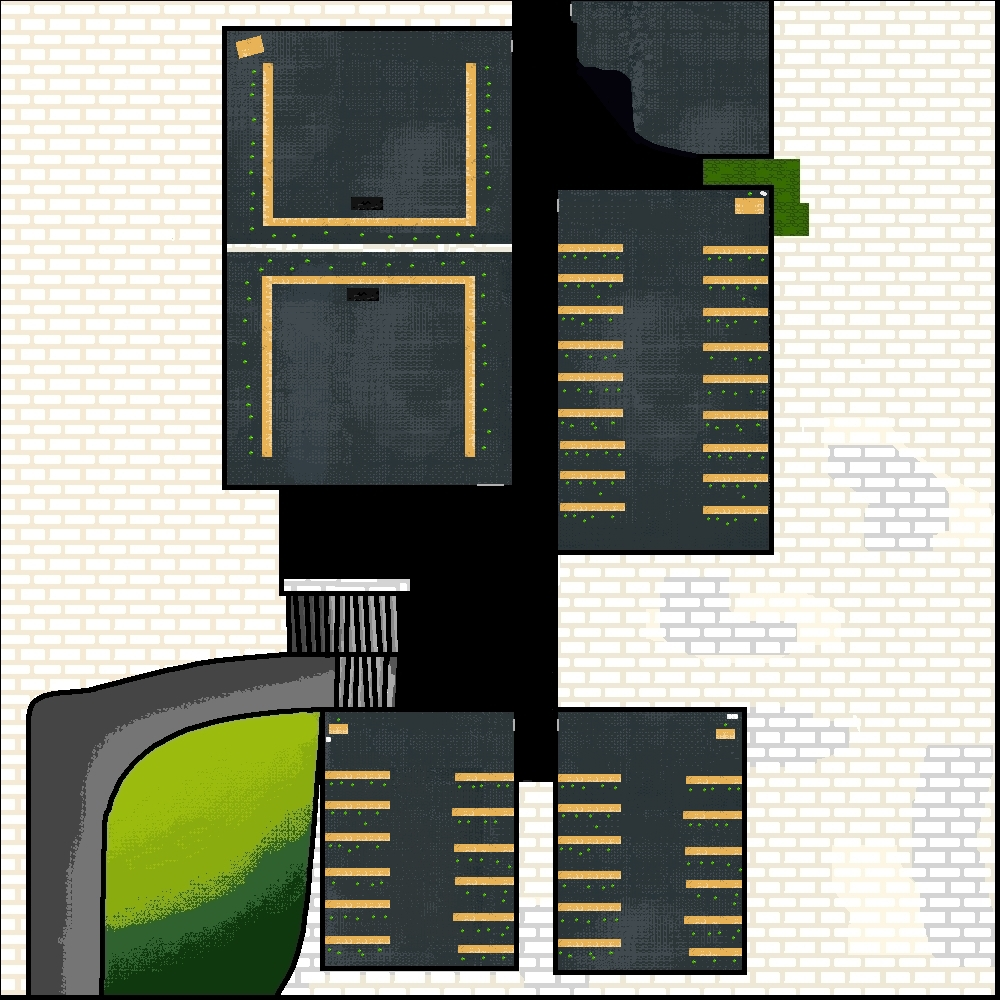
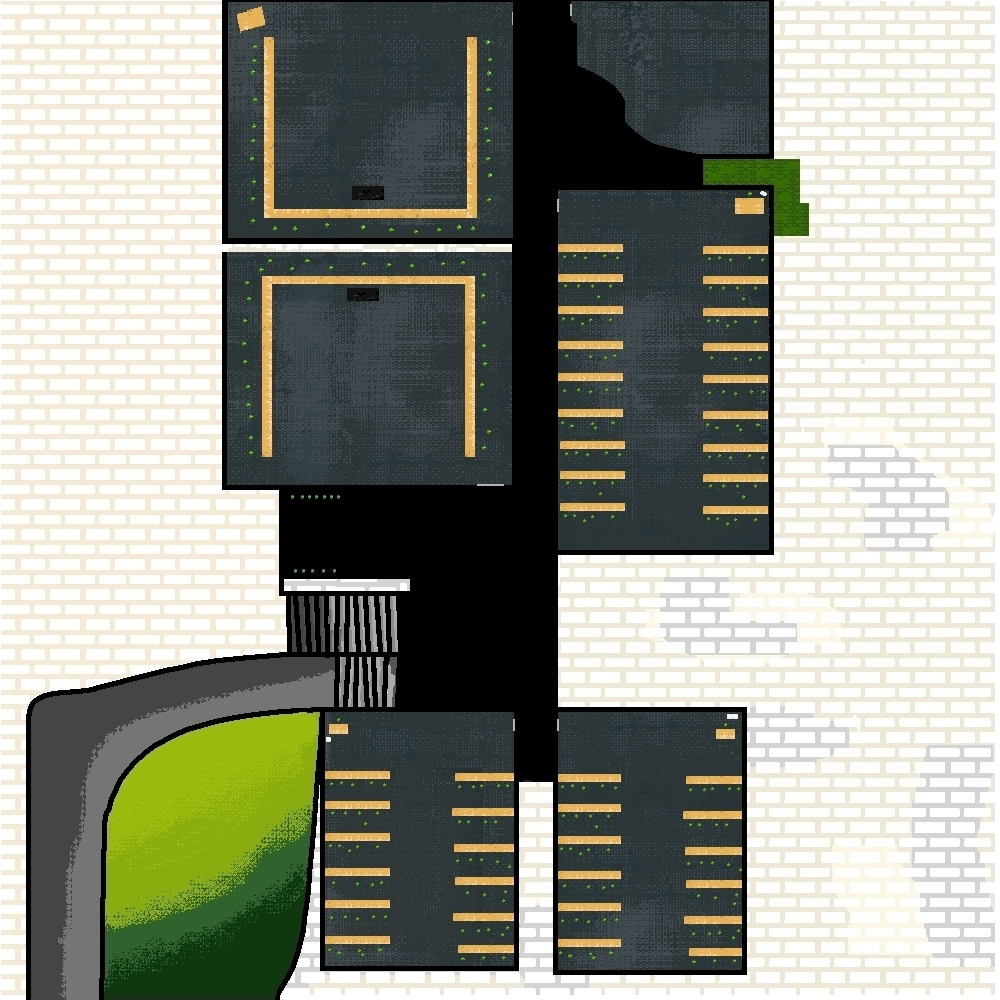
Front-end fase 1

Changed region(s): [[0.0, 0.0, 1.0, 1.0], [0.217, 0.0, 0.527, 0.248], [0.589, 0.062, 0.651, 0.124]]

diff --git a/alvaro simulator/fases/fase1.css b/alvaro simulator/fases/fase1.css
@@ -1,23 +1,26 @@
+@import url('https://fonts.googleapis.com/css2?family=Press+Start+2P&display=swap');
 body{
     background-color:#469be5 ;
     display: flex;
+    padding: 50px;
+    font-family: "Press Start 2P", system-ui;
 }
 
 #alvaro {
-    width: 250px;
+    width: 300px;
     margin-top: 8vh;
+    
 }
 
 #fase{
-    width: 700px;
+    width: 1200px;
     height: 700px;
-    background-image: url(../assets/mapa.jpg);
+    background-image: url(../assets/mapa1.jpg);
     background-size: cover;
     background-repeat: no-repeat;
-    margin-left: 10%;
-    justify-content: center;
-    align-items: center;
-    display: flex;
+    margin-left: 5%;
+    border-radius: 6px;
+    margin-top: 4%;
 }
 
 #mapa{
@@ -25,7 +28,9 @@ body{
 }
 
 #personagem{
-    width: 30px;
+    width: 60px;
+    
+
 }
 
 .instrucao{
@@ -34,12 +39,28 @@ body{
 
 .falas {
     margin-top: 10vh;
-    width: 300px;
-    height: 200px;
+    width: 360px;
+    height: 150px;
     text-align: center;
+    background-image: url(../assets/balao2.png);
+    background-repeat: no-repeat;
+    letter-spacing: 1px;
+ 
+
+
 }
 
 .game-container {
     display: flex;
     width: 100%;
 }
+ h5 {
+    margin: 40px 40px 0px 40px;
+    
+ }
+ 
+ #command-input {
+    border: none;
+    background: none;
+ }
+

diff --git a/alvaro simulator/fases/fase1.html b/alvaro simulator/fases/fase1.html
@@ -13,7 +13,7 @@
             <img id="alvaro" src="../assets/alvaro.png" alt="">        
 
             <div class="falas">
-                <h4>Bem-vindo ao Alvaro simulator, um jogo onde você me ajuda escrevendo código CSS!</h4>
+                <h5>Bem-vindo ao Alvaro simulator,um jogo onde você me ajuda escrevendo código css!</h5>
                 
                 <input type="text" id="command-input" placeholder="Digite o comando...">
             </div>
